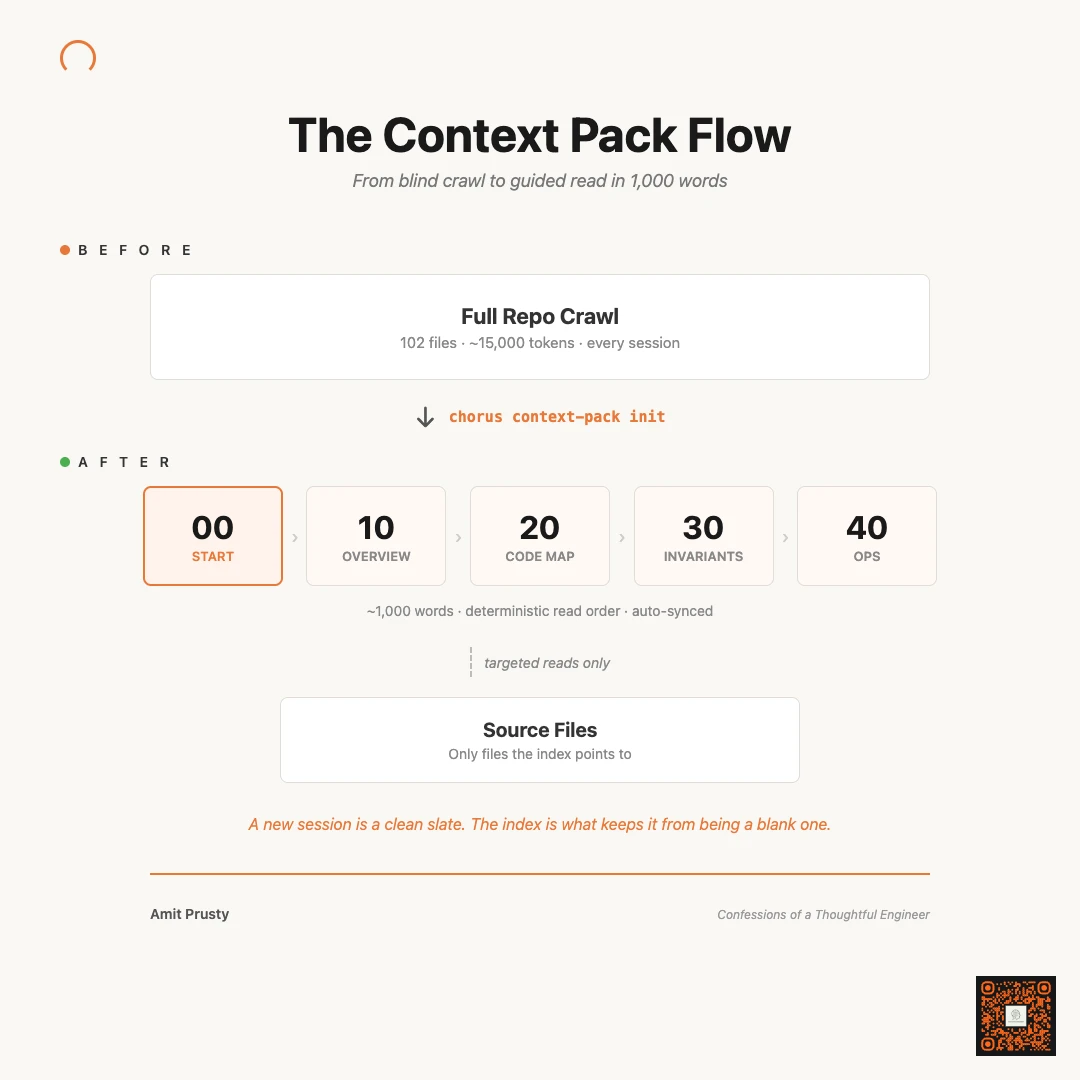
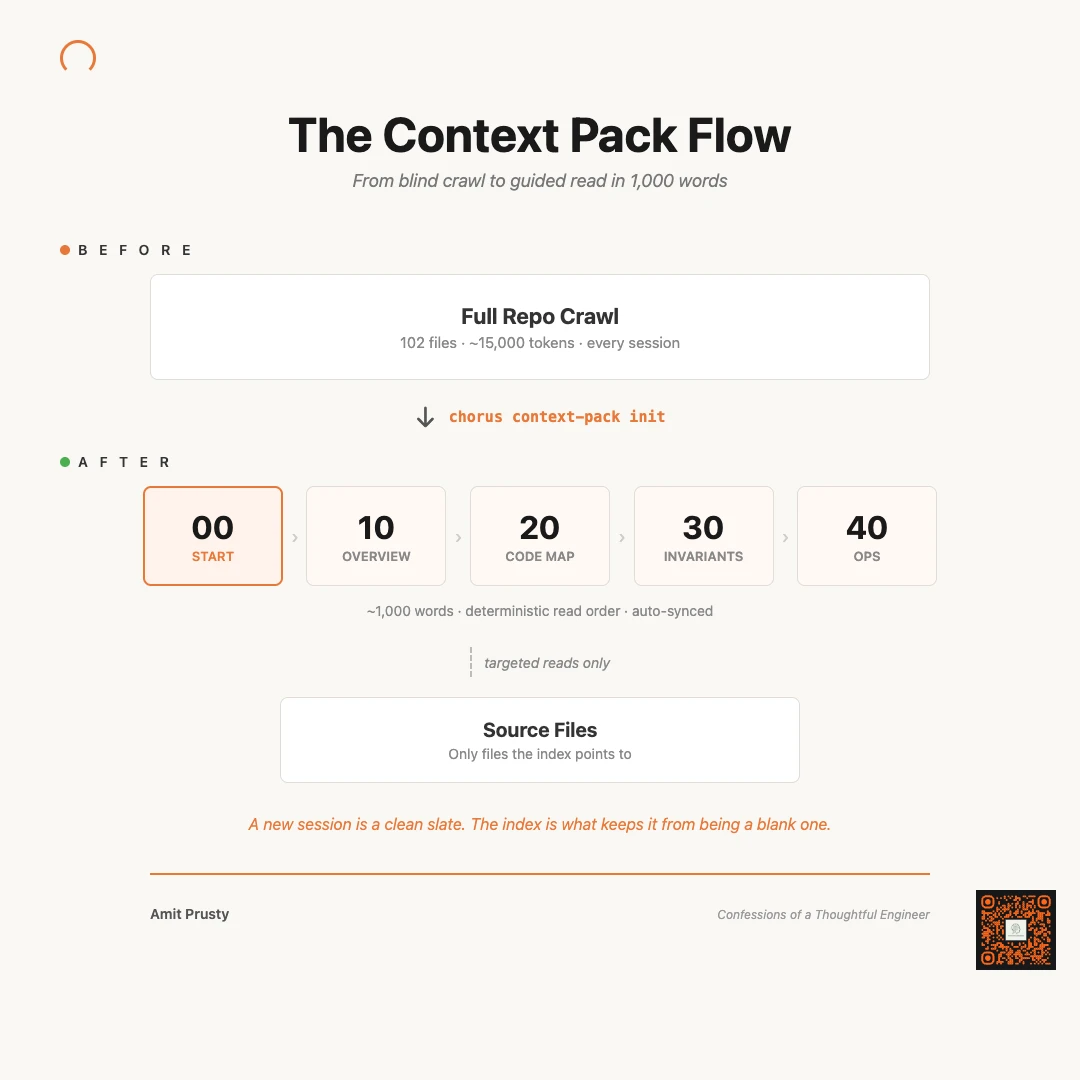
docs: move QR code above footer to avoid text overlap

Changed region(s): [[0.8861, 0.825, 0.9778, 0.9778]]

diff --git a/fixtures/demo/hero-silo-tax.html b/fixtures/demo/hero-silo-tax.html
@@ -133,7 +133,7 @@
   .footer-right { font-size: 12px; color: #999; font-style: italic; }
   .qr {
     position: absolute;
-    bottom: 24px; right: 24px;
+    bottom: 110px; right: 24px;
     width: 80px; height: 80px;
     z-index: 10;
   }

diff --git a/fixtures/demo/hero-context-pack.html b/fixtures/demo/hero-context-pack.html
@@ -123,7 +123,7 @@
   .footer-right { font-size: 12px; color: #999; font-style: italic; }
   .qr {
     position: absolute;
-    bottom: 24px; right: 24px;
+    bottom: 110px; right: 24px;
     width: 80px; height: 80px;
   }
 </style>
